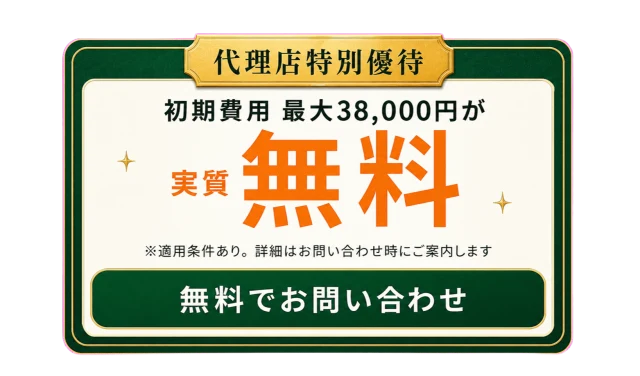
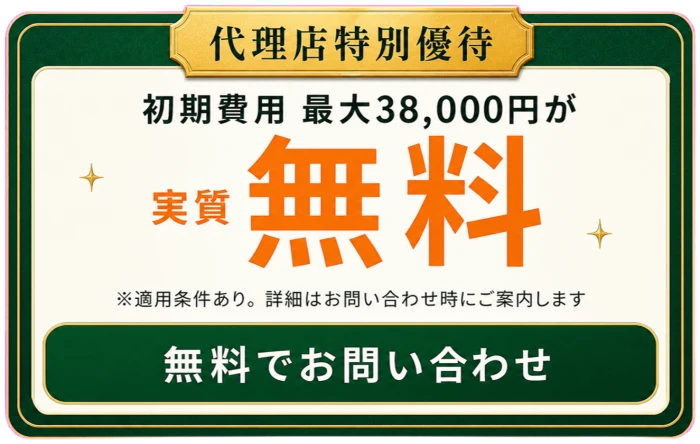
PC右下フローティング（t4）の余分な枠を除去し、少し拡大
画像自体に透明な余白が大きく含まれており、コンテナ側のborder-radius
とbox-shadowが余白部分にも掛かって二重の枠のように見えていた。画像を
実際のチケット部分だけにトリミングし、コンテナ側の装飾（角丸・影）は
チケット自体に既に含まれているため撤去。あわせて幅を200px→260pxに拡大。

diff --git a/08.banner/lp-test-0815-t1/index.html b/08.banner/lp-test-0815-t1/index.html
@@ -897,11 +897,8 @@ a{text-decoration:none;color:inherit}
     position:fixed;
     right:24px;
     bottom:24px;
-    width:200px;
+    width:260px;
     z-index:900;
-    border-radius:12px;
-    overflow:hidden;
-    box-shadow:0 8px 28px rgba(0,0,0,.28);
     opacity:0;
     transform:translateY(16px);
     pointer-events:none;
@@ -2957,7 +2954,7 @@ a{text-decoration:none;color:inherit}
 <div class="cp-float" id="cp-float">
   <button class="cp-float-close" id="cp-float-close-btn" aria-label="閉じる">✕</button>
   <a href="campaign-check/">
-    <img src="images/campaign/banner-0815-t4.webp" alt="初期費用最大38,000円が実質無料になるUber Eats出店キャンペーン" loading="lazy" decoding="async" width="640" height="376">
+    <img src="images/campaign/banner-0815-t4.webp" alt="初期費用最大38,000円が実質無料になるUber Eats出店キャンペーン" loading="lazy" decoding="async" width="700" height="444">
   </a>
 </div>
 <script>

diff --git a/08.banner/lp-test-0815-t2/index.html b/08.banner/lp-test-0815-t2/index.html
@@ -897,11 +897,8 @@ a{text-decoration:none;color:inherit}
     position:fixed;
     right:24px;
     bottom:24px;
-    width:200px;
+    width:260px;
     z-index:900;
-    border-radius:12px;
-    overflow:hidden;
-    box-shadow:0 8px 28px rgba(0,0,0,.28);
     opacity:0;
     transform:translateY(16px);
     pointer-events:none;
@@ -2957,7 +2954,7 @@ a{text-decoration:none;color:inherit}
 <div class="cp-float" id="cp-float">
   <button class="cp-float-close" id="cp-float-close-btn" aria-label="閉じる">✕</button>
   <a href="campaign-check/">
-    <img src="images/campaign/banner-0815-t4.webp" alt="初期費用最大38,000円が実質無料になるUber Eats出店キャンペーン" loading="lazy" decoding="async" width="640" height="376">
+    <img src="images/campaign/banner-0815-t4.webp" alt="初期費用最大38,000円が実質無料になるUber Eats出店キャンペーン" loading="lazy" decoding="async" width="700" height="444">
   </a>
 </div>
 <script>
